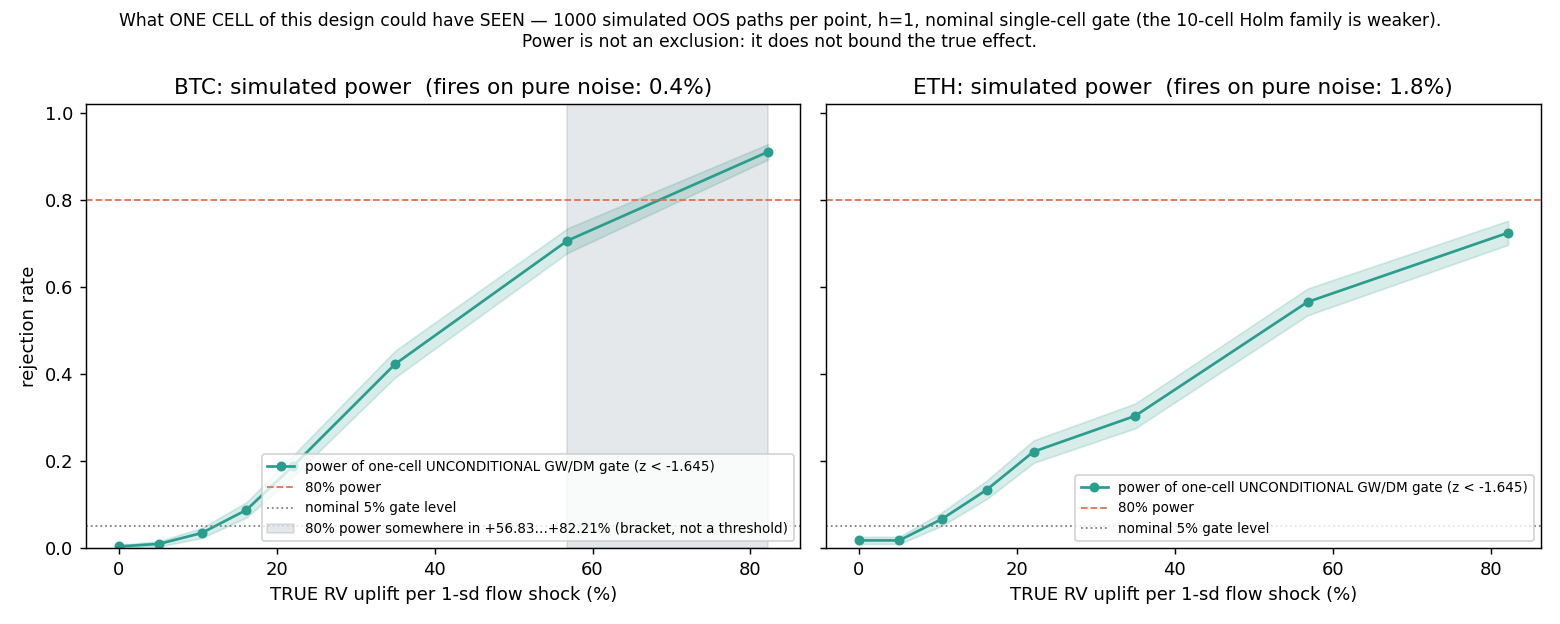
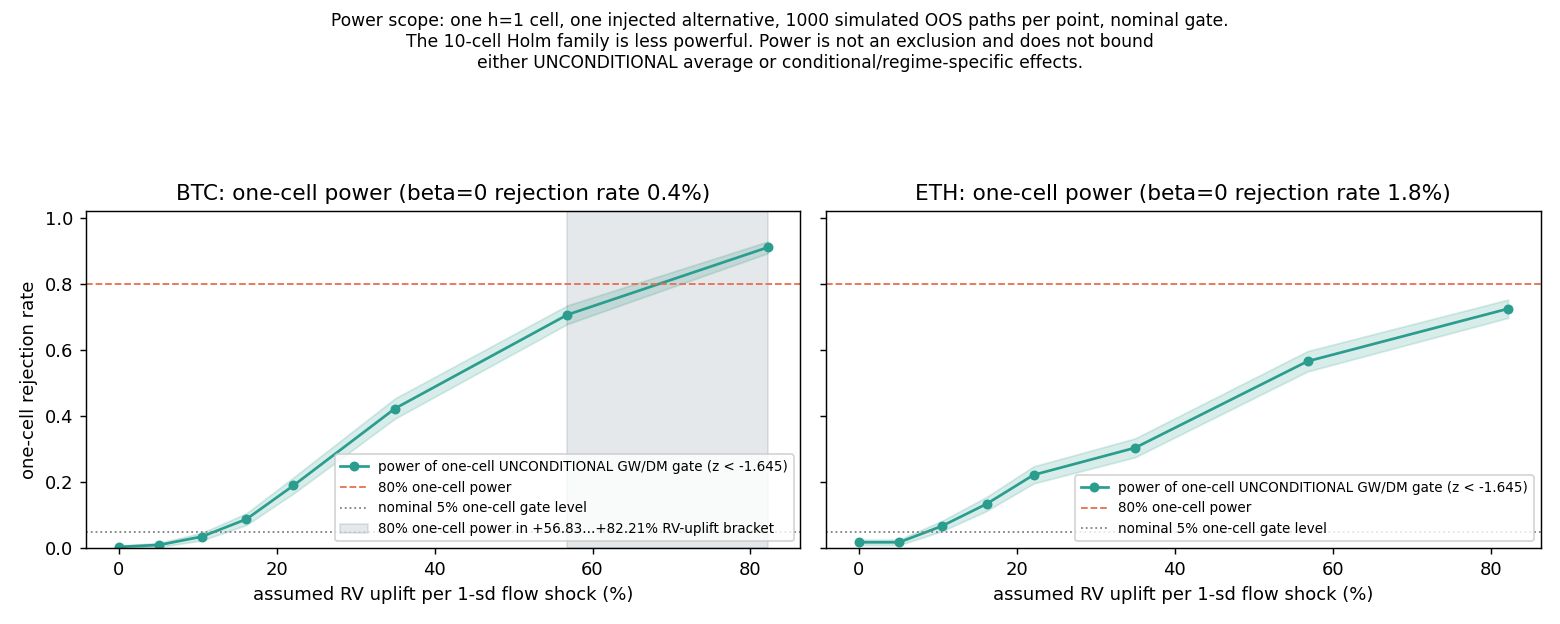
[codex] bind k1709 reader-facing figure claims

diff --git a/experiments/k1709/k1709.py b/experiments/k1709/k1709.py
@@ -195,6 +195,11 @@ NESTED_DM_FIXED_MEMORY_MANIFEST_V1 = {
         "runtime_multiple_testing_record": "multiple_testing",
         "claim_surface_files": [
             "README.md",
+            "fig1_flow_vs_rv.png",
+            "fig2_event_window.png",
+            "fig3_oos_qlike.png",
+            "fig4_threshold_sensitivity.png",
+            "fig5_simulated_power.png",
             "k1709.py",
             "k1709_results.json",
             "render_readme.py",
@@ -2743,9 +2748,10 @@ def build_verdict_basis(
         "figure_5_nominal_line_label": "nominal 5% one-cell gate level",
         "figure_5_suptitle": (
             f"Power scope: one h=1 cell, one injected alternative, {POWER_REPS} "
-            "simulated OOS paths per point, nominal gate. The 10-cell Holm family "
-            "is less powerful. Power is not an exclusion and does not bound either "
-            "UNCONDITIONAL average or conditional/regime-specific effects."
+            "simulated OOS paths per point, nominal gate.\n"
+            "The 10-cell Holm family is less powerful. Power is not an exclusion "
+            "and does not bound\n"
+            "either UNCONDITIONAL average or conditional/regime-specific effects."
         ),
         "reproducibility_limitation": (
             "Neither the Farside flow response nor the Yahoo price response was "
@@ -3874,7 +3880,7 @@ def make_frozen_result_plots(res: dict) -> None:
             ax.legend(fontsize=7.5, loc="lower right")
         axes[0].set_ylabel(vb["figure_5_y_label"])
         fig.suptitle(vb["figure_5_suptitle"], fontsize=9.5)
-        fig.tight_layout()
+        fig.tight_layout(rect=(0, 0, 1, 0.86))
         fig.savefig(OUT / "fig5_simulated_power.png", dpi=130)
         plt.close(fig)
 

diff --git a/experiments/k1709/test_k1709.py b/experiments/k1709/test_k1709.py
@@ -64,6 +64,7 @@ from k1709 import (  # noqa: E402
     GW_TRAIN_WINDOW,
     HAR_M,
     MATERIAL_GAIN_MARGIN,
+    NESTED_DM_FIXED_MEMORY_MANIFEST_V1,
     REGISTRY,
     SPECS,
     Panel,
@@ -1367,6 +1368,27 @@ def test_every_inferential_figure_label_is_explicitly_unconditional():
         "power of the GW gate",
     ):
         assert stale not in src
+
+
+def test_every_reader_facing_figure_is_bound_into_the_review_receipt():
+    exp = Path(__file__).parent
+    figures = {path.name for path in exp.glob("fig*.png")}
+    declared = set(
+        NESTED_DM_FIXED_MEMORY_MANIFEST_V1["implementation"][
+            "claim_surface_files"
+        ]
+    )
+    readme = (exp / "README.md").read_text()
+
+    assert figures == {
+        "fig1_flow_vs_rv.png",
+        "fig2_event_window.png",
+        "fig3_oos_qlike.png",
+        "fig4_threshold_sensitivity.png",
+        "fig5_simulated_power.png",
+    }
+    assert figures <= declared
+    assert all(name in readme for name in figures)
 
 
 def test_main_has_no_unresolved_global_references():
